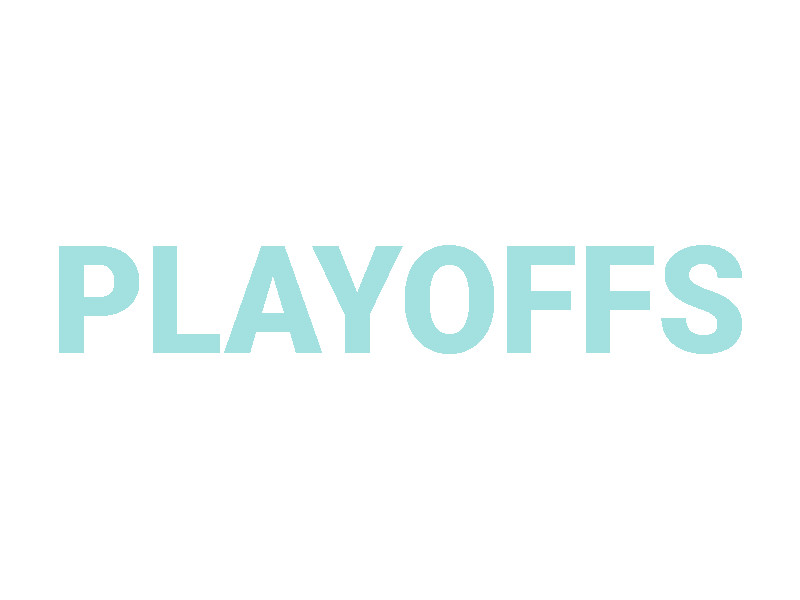
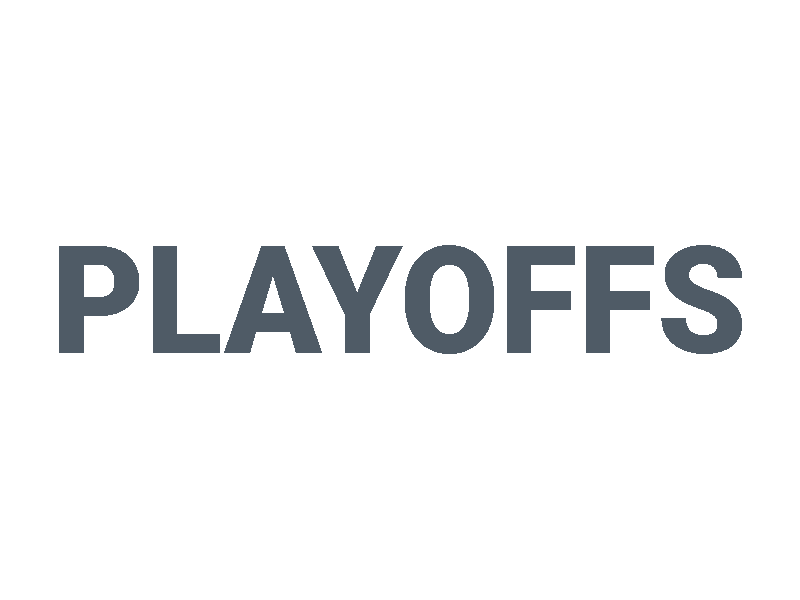
Playoffs bg bug fix

Changed region(s): [[0.0625, 0.39, 0.9375, 0.6]]

diff --git a/styles.css b/styles.css
@@ -99,7 +99,7 @@ img.logo.img-fluid {
 }
 
 .game-card-inner-wrapper.game-playoffs {
-    background-image: url(playoffs-bg--text-only.png);
+    background-image: url(playoffs-bg-muted-text-only.png);
     background-size: cover;
     background-position: center;
 }